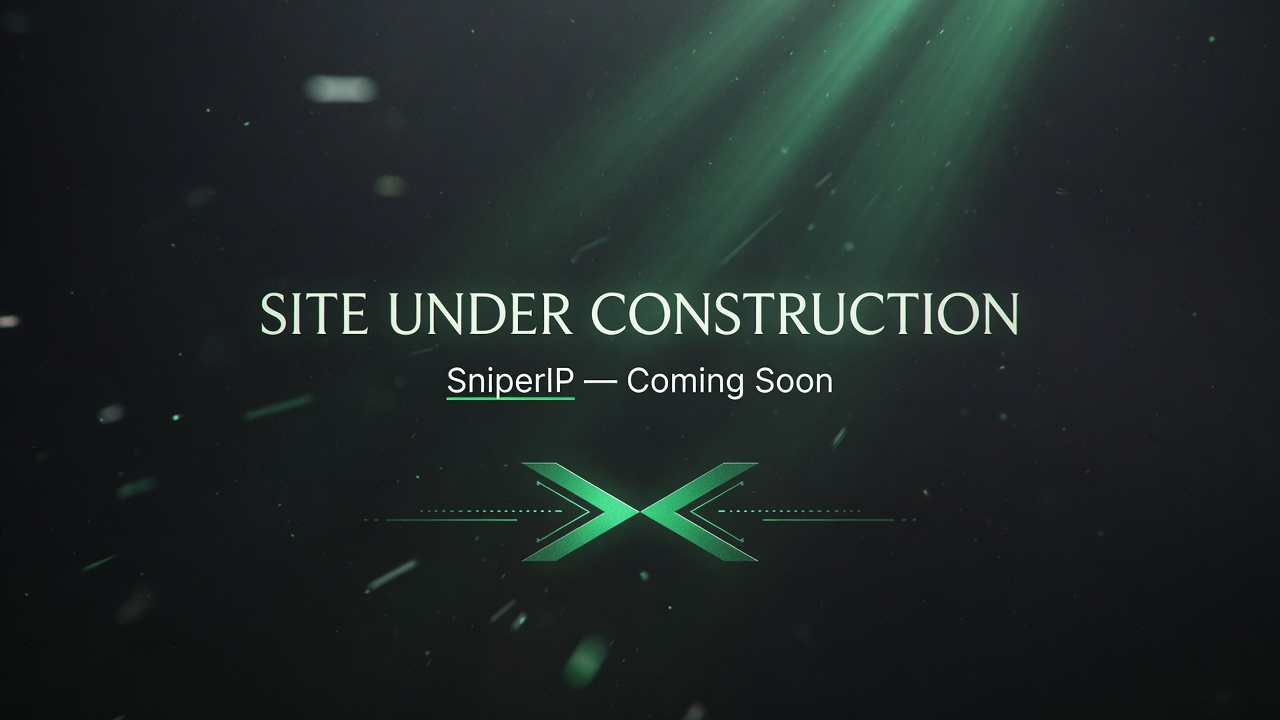
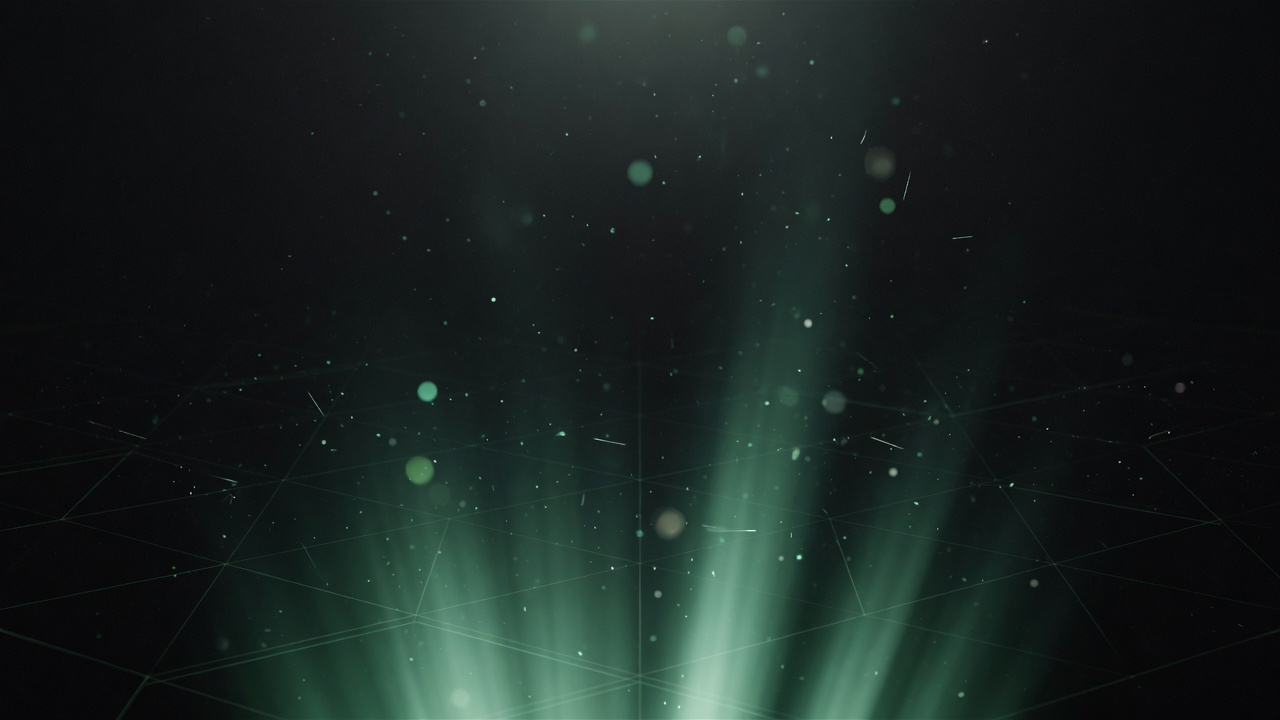
fix: smooth under-construction first paint without text overlap
Use a text-free ambient still as the first-paint background, fade
the video in once ready, and darken the document shell so HTML copy
never stacks over poster text or a light flash.

diff --git a/src/app/page.tsx b/src/app/page.tsx
@@ -1,29 +1,53 @@
-import type { Metadata } from "next";
+"use client";
+
+import { useCallback, useEffect, useState } from "react";
 import Image from "next/image";
 
-export const metadata: Metadata = {
-  title: "SniperIP — Site Under Construction",
-  description: "SniperIP is currently under construction. Check back soon.",
-  robots: { index: false, follow: false },
-};
+type Stage = "boot" | "ready";
 
 export default function UnderConstructionPage() {
+  const [stage, setStage] = useState<Stage>("boot");
+  const [videoReady, setVideoReady] = useState(false);
+
+  useEffect(() => {
+    // Paint solid shell first, then reveal content after the first frame
+    // so we never flash light theme / stacked poster text.
+    const id = window.requestAnimationFrame(() => setStage("ready"));
+    return () => window.cancelAnimationFrame(id);
+  }, []);
+
+  const markVideoReady = useCallback(() => {
+    setVideoReady(true);
+  }, []);
+
   return (
     <div className="relative min-h-dvh overflow-hidden bg-[#05070a] text-white">
-      {/* Background video */}
+      {/* Instant text-free still so first paint matches the final look */}
+      <div
+        className="absolute inset-0 bg-[#05070a] bg-cover bg-center"
+        style={{ backgroundImage: "url(/under-construction/bg-still.jpg)" }}
+        aria-hidden
+      />
+
+      {/* Video fades in over the still once it can play — never carries text */}
       <video
-        className="absolute inset-0 h-full w-full object-cover"
+        className={`absolute inset-0 h-full w-full object-cover transition-opacity duration-1000 ease-out ${
+          videoReady ? "opacity-100" : "opacity-0"
+        }`}
         autoPlay
         muted
         loop
         playsInline
-        poster="/under-construction/poster.jpg"
+        preload="auto"
+        onCanPlay={markVideoReady}
+        onLoadedData={markVideoReady}
+        onPlaying={markVideoReady}
         aria-hidden
       >
         <source src="/under-construction/bg.mp4" type="video/mp4" />
       </video>
 
-      {/* Atmospheric overlays */}
+      {/* Atmospheric overlays — always present, same final look from frame 1 */}
       <div
         className="pointer-events-none absolute inset-0 bg-gradient-to-b from-black/55 via-black/35 to-black/70"
         aria-hidden
@@ -37,8 +61,14 @@ export default function UnderConstructionPage() {
         aria-hidden
       />
 
-      {/* Content */}
-      <main className="relative z-10 flex min-h-dvh flex-col items-center justify-center px-6 text-center">
+      {/* Single source of truth for copy — only HTML, never baked into poster */}
+      <main
+        className={`relative z-10 flex min-h-dvh flex-col items-center justify-center px-6 text-center transition-all duration-700 ease-out ${
+          stage === "ready"
+            ? "translate-y-0 opacity-100"
+            : "translate-y-2 opacity-0"
+        }`}
+      >
         <div className="mb-10 opacity-95">
           <Image
             src="/logo-light.png"

diff --git a/src/app/layout.tsx b/src/app/layout.tsx
@@ -32,8 +32,16 @@ export default function RootLayout({
   children: React.ReactNode;
 }) {
   return (
-    <html lang="en" className={`${headingFont.variable} ${bodyFont.variable} ${monoFont.variable}`}>
-      <body className="font-body antialiased bg-background text-foreground">{children}</body>
+    <html
+      lang="en"
+      className={`${headingFont.variable} ${bodyFont.variable} ${monoFont.variable} bg-[#05070a]`}
+    >
+      <head>
+        {/* Preload the text-free still so first paint matches the final look */}
+        <link rel="preload" as="image" href="/under-construction/bg-still.jpg" />
+        <link rel="preload" as="video" href="/under-construction/bg.mp4" type="video/mp4" />
+      </head>
+      <body className="font-body antialiased bg-[#05070a] text-white">{children}</body>
     </html>
   );
 }
